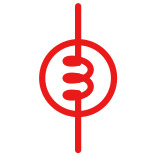
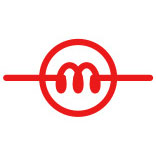
changed components orientation to horizontal

diff --git a/Actions/ActionAddConn.cpp b/Actions/ActionAddConn.cpp
@@ -1,7 +1,6 @@
 #include "ActionAddConn.h"
 #include "../ApplicationManager.h"
-#include <iostream>
-using namespace std;
+
 
 ActionAddConn::ActionAddConn(ApplicationManager* pApp) :Action(pApp)
 {
@@ -45,7 +44,7 @@ void ActionAddConn::Execute()
 	else {
 		pUI->PrintMsg("Component 1 selected");
 		comp1_graph_info = CompList[cInfo->component1]->getGraphicsInfo();
-		if (y >= comp1_graph_info->PointsList[0].y && y <= comp1_graph_info->PointsList[0].y + 50) {
+		if (x >= comp1_graph_info->PointsList[0].x && x <= comp1_graph_info->PointsList[0].x + 50) {
 			cInfo->item1_terminal = 0;
 		}
 		else {
@@ -80,7 +79,7 @@ void ActionAddConn::Execute()
 
 			comp2_graph_info = CompList[cInfo->component2]->getGraphicsInfo();
 
-			if (y >= comp2_graph_info->PointsList[0].y && y <= comp2_graph_info->PointsList[0].y + 50) {
+			if (x >= comp2_graph_info->PointsList[0].x && x <= comp2_graph_info->PointsList[0].x + 50) {
 				cInfo->item2_terminal = 0;
 			}
 			else {
@@ -97,26 +96,29 @@ void ActionAddConn::ProcessConnection(ConnectionInfo* cInfo) {
 	comp2_graph_info = CompList[cInfo->component2]->getGraphicsInfo();
 
 	if (cInfo->item1_terminal == 0) {
-		conn_graph_info->PointsList[0].x = comp1_graph_info->PointsList[0].x + 50;
-		conn_graph_info->PointsList[0].y = comp1_graph_info->PointsList[0].y;
+		conn_graph_info->PointsList[0].x = comp1_graph_info->PointsList[0].x+5;
+		conn_graph_info->PointsList[0].y = comp1_graph_info->PointsList[0].y+50;
 
 	}
 	else {
-		conn_graph_info->PointsList[0].x = comp1_graph_info->PointsList[1].x - 50;
-		conn_graph_info->PointsList[0].y = comp1_graph_info->PointsList[1].y;
+		conn_graph_info->PointsList[0].x = comp1_graph_info->PointsList[0].x+95;
+		conn_graph_info->PointsList[0].y = comp1_graph_info->PointsList[0].y+50;
 	}
 
 	if (cInfo->item2_terminal == 0) {
-		conn_graph_info->PointsList[1].x = comp2_graph_info->PointsList[0].x + 50;
-		conn_graph_info->PointsList[1].y = comp2_graph_info->PointsList[0].y + 5;
+		conn_graph_info->PointsList[1].x = comp2_graph_info->PointsList[0].x+5;
+		conn_graph_info->PointsList[1].y = comp2_graph_info->PointsList[0].y + 50;
 
 	}
 	else {
-		conn_graph_info->PointsList[1].x = comp2_graph_info->PointsList[1].x - 50;
-		conn_graph_info->PointsList[1].y = comp2_graph_info->PointsList[1].y - 5;
+		conn_graph_info->PointsList[1].x = comp2_graph_info->PointsList[0].x+95;
+		conn_graph_info->PointsList[1].y = comp2_graph_info->PointsList[0].y+50;
 	}
 	
 	conn = new Connection(cInfo, conn_graph_info, CompList[cInfo->component1], CompList[cInfo->component2]);
+
+	
+
 
 	if (cInfo->item1_terminal == 0) {
 		CompList[cInfo->component1]->setTerm1Conn(conn);
